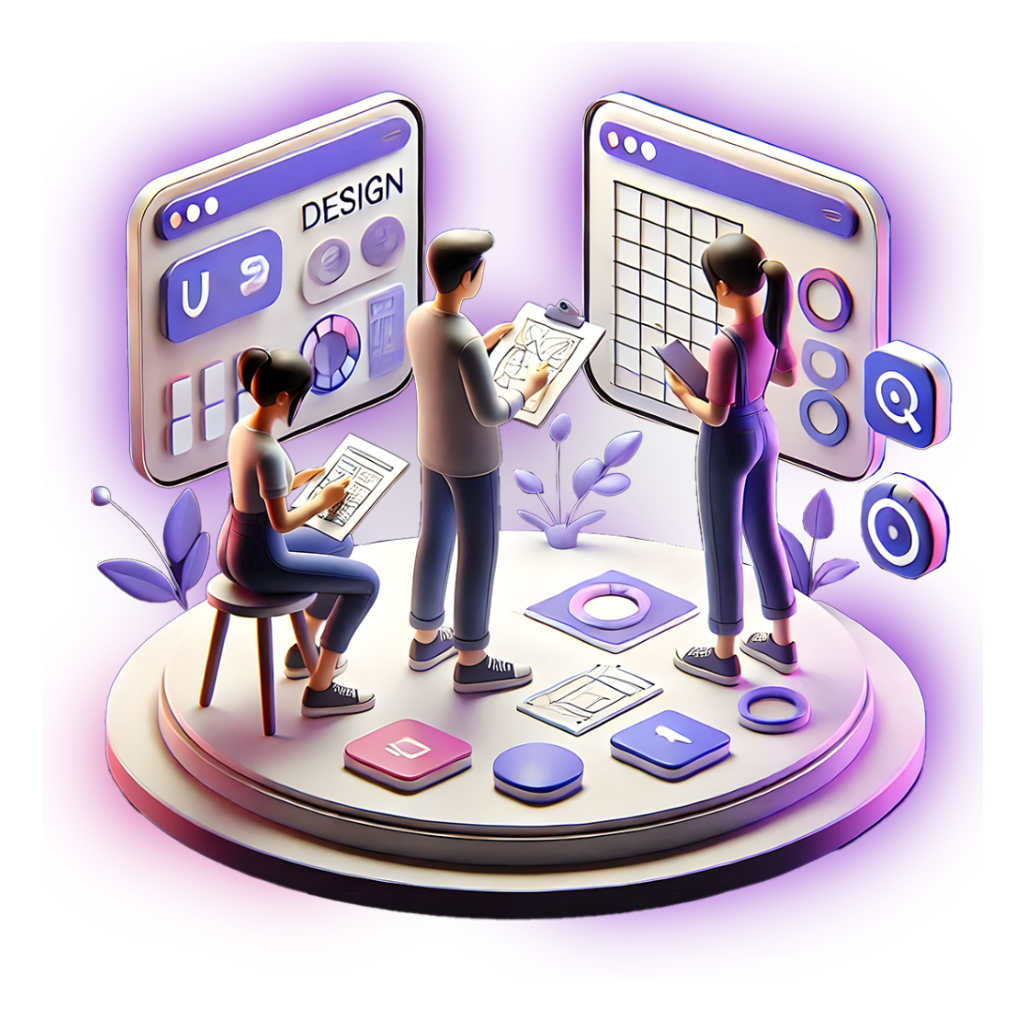
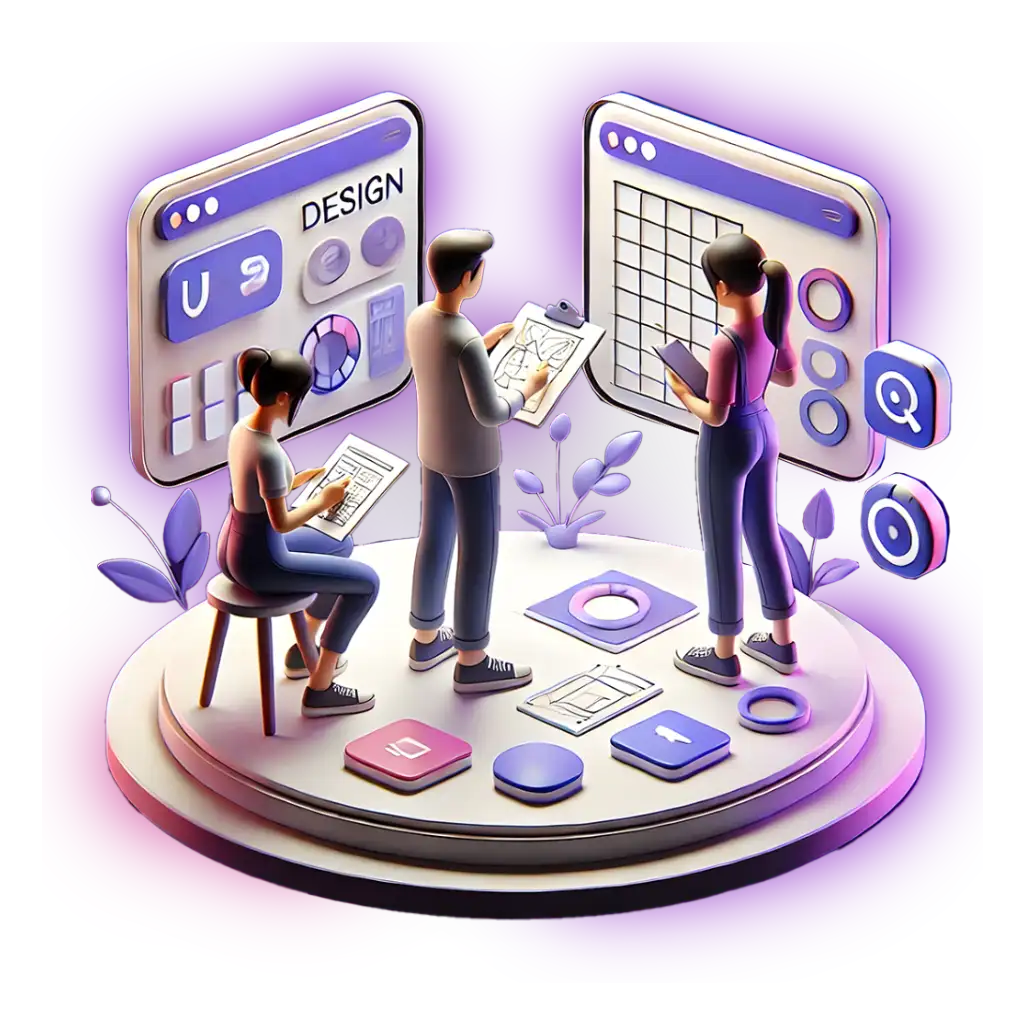
Compressed images and reduced the public folder size from 25mb to 3mb

Changed region(s): [[0.1562, 0.1875, 0.1875, 0.2188]]

diff --git a/src/components/loader.css b/src/components/loader.css
@@ -104,7 +104,7 @@
 
 
   .loader-gif {
-    width: 300px; /* Adjust size as needed */
+    width: 200px; /* Adjust size as needed */
     height: auto; /* Adjust size as needed */
     filter: saturate(1.3);
     z-index: 1001;
@@ -186,7 +186,7 @@
     }
 
     .loader-gif {
-        width: 200px; /* Adjust size as needed */
+        width: 150px; /* Adjust size as needed */
     }
 
     .loader {
